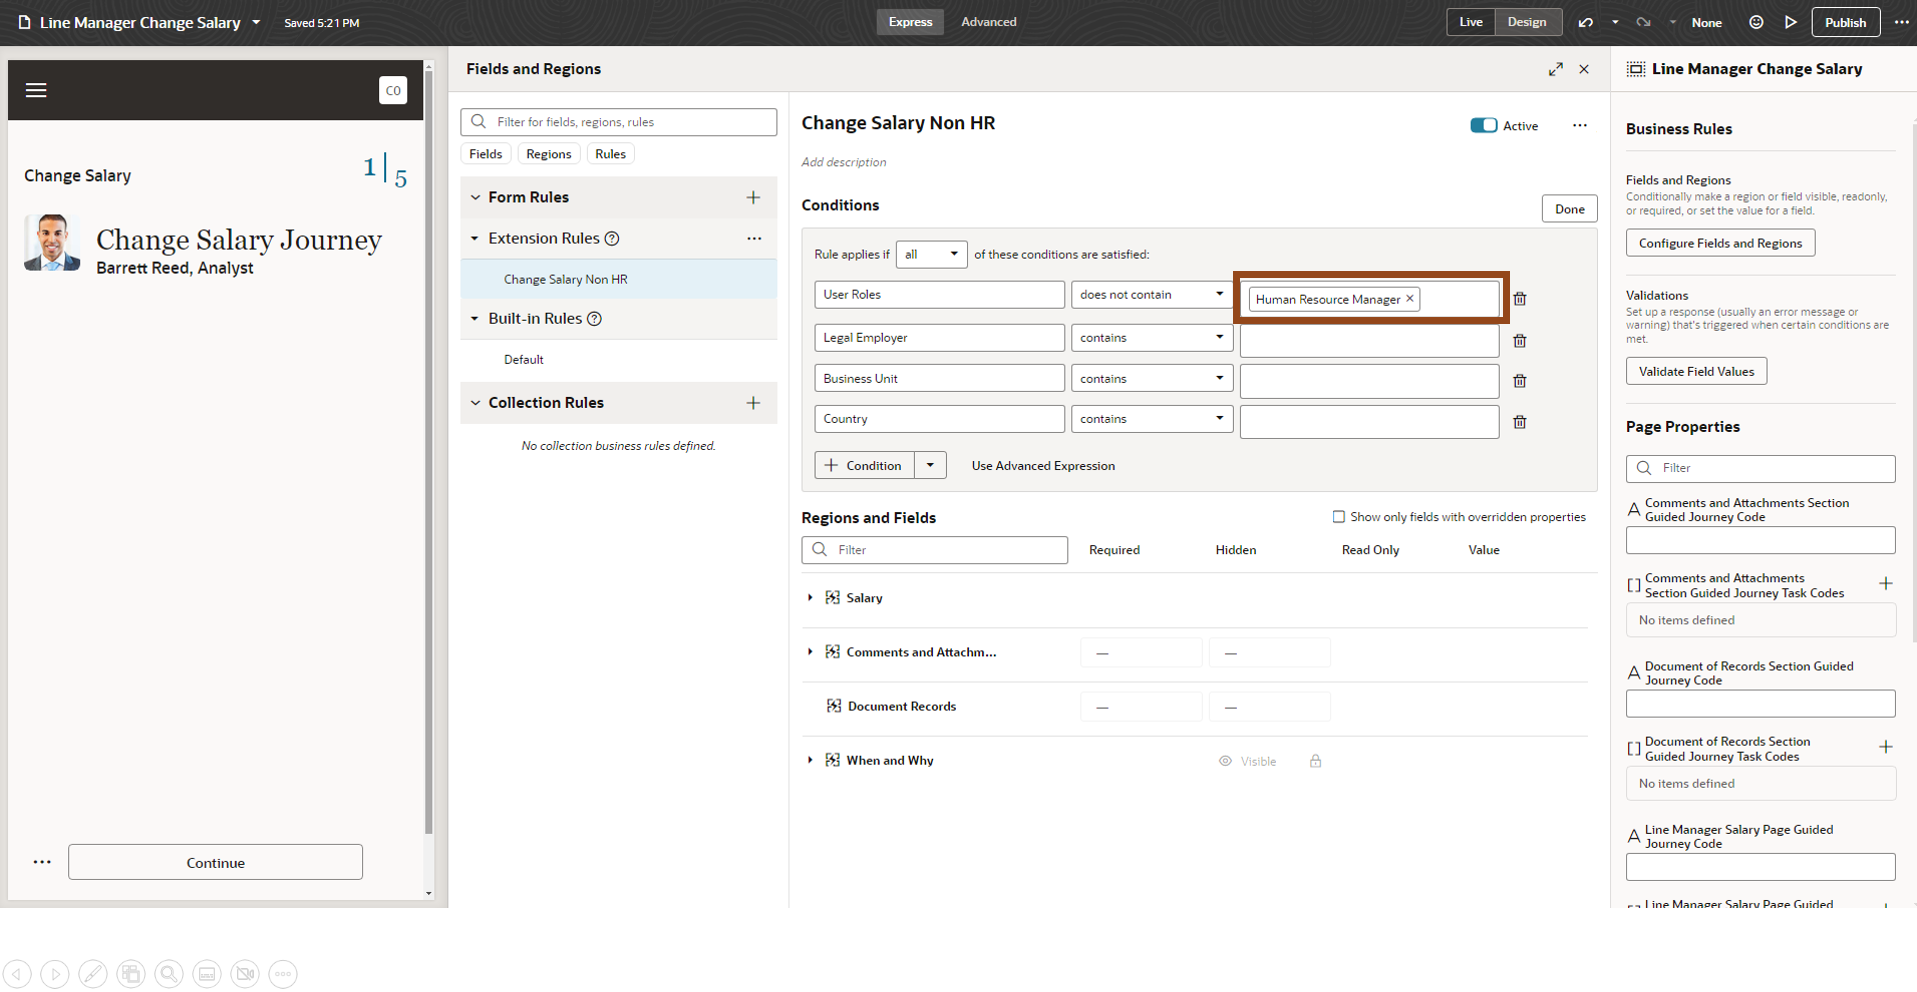
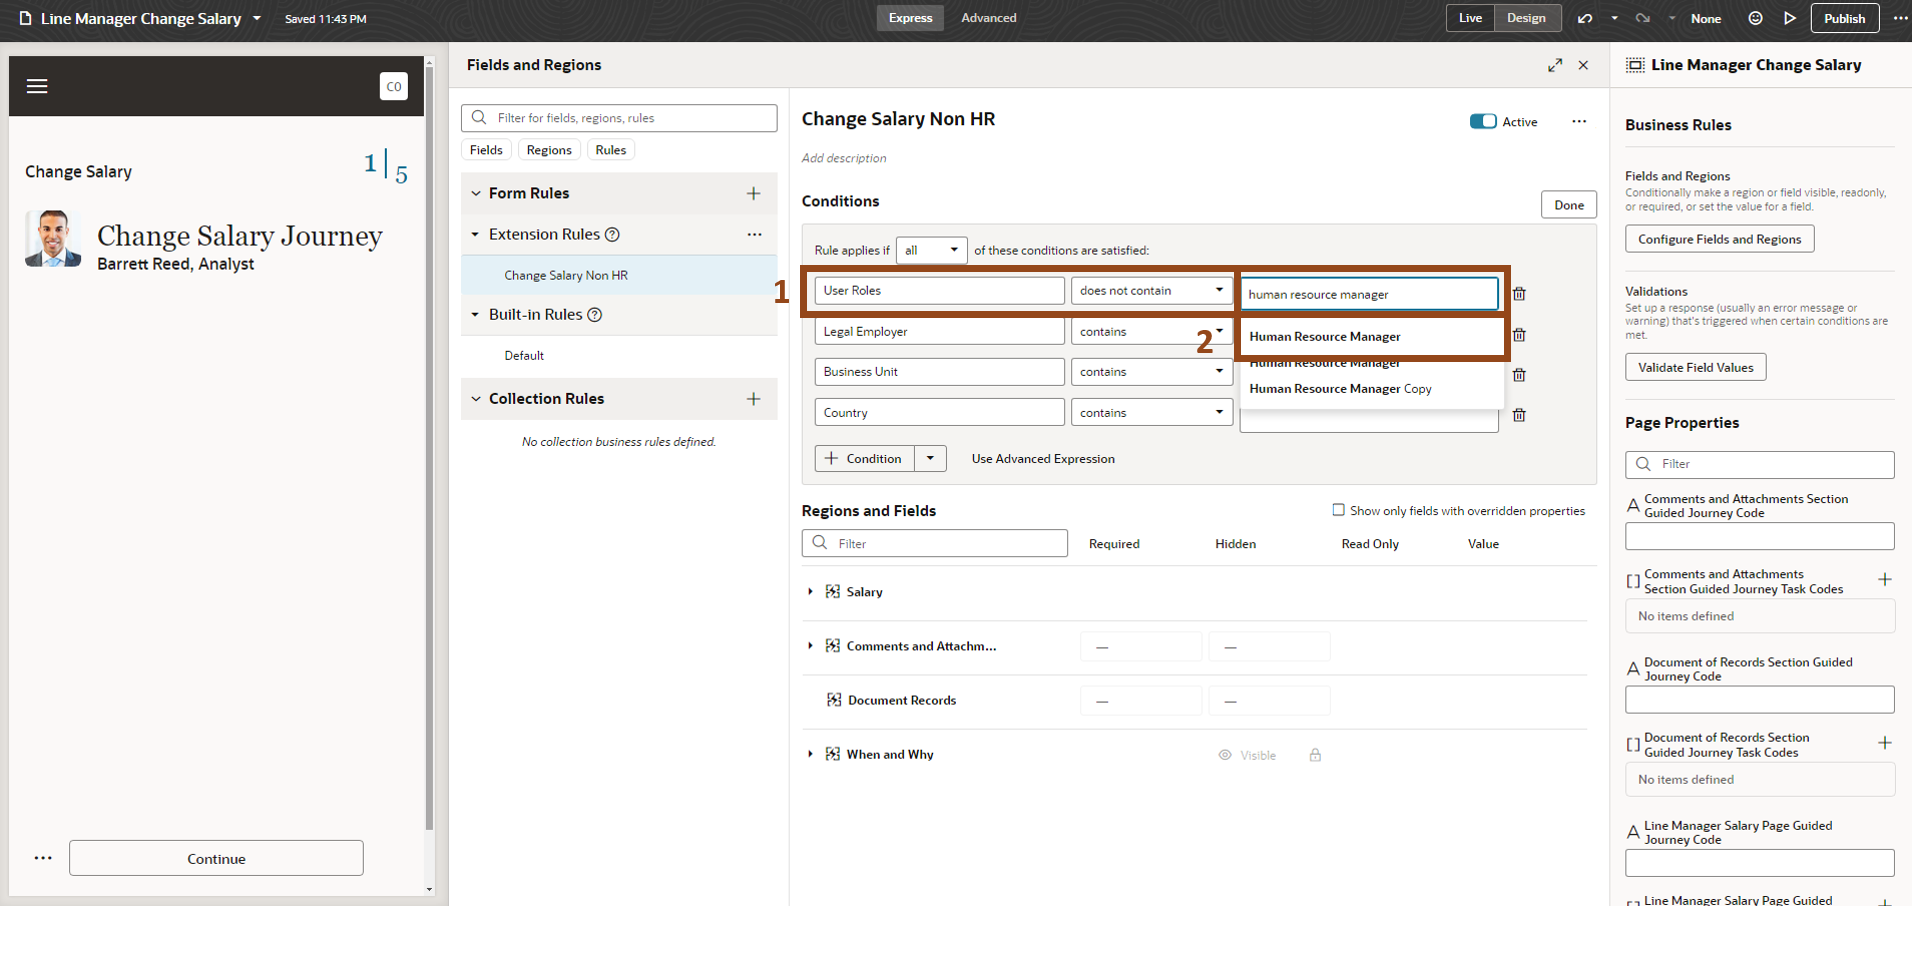
Changes

diff --git a/apps-cloud-adventure-cio/02-configure/configure.md b/apps-cloud-adventure-cio/02-configure/configure.md
@@ -58,7 +58,7 @@ In this activity, you will use Redwood to incorporate rules and define content s
 
     > (1) Enter a **future date** for **When does the salary will start?** <br>
 
-    > (2) Select **Change Salary** for **What is the action name.** <br>
+    > (2) Select **Change Salary** for **What is the action name?** <br>
 
     > (3) Select **Career Progression** for **why you are changing the salary for Barrett Reed?** <br>
 
@@ -117,13 +117,15 @@ In this activity, you will use Redwood to incorporate rules and define content s
 
     ![Fields and Regions](images/image013.png)
     
-    > (1) Click on **contains** in the User Roles Row. <br>
+    > (1) Click on the middle box that has **contains** in the User Roles Row. <br>
 
     > (2) Select **does not contain** from the drop down options.  
 
     ![Fields and Regions](images/image014.png)
 
-    > Then enter the **Human Resource Manager** role in the right most box.
+    > (1) Enter the **Human Resource Manager** role in the right most box of the **User Roles** row. <br>
+
+    > (2) Select the first **Human Resource Manager** role from the drop down options.  
 
     ![Fields and Regions](images/image015.png)
 
@@ -237,7 +239,7 @@ In this activity, you will use Redwood to incorporate rules and define content s
 
     Redwood offers a quick way to review your changes as they appear in the application.
 
-    > (1) Click on the **Review icon** in the upper right of  the screen.   <br>
+    > (1) Click on the **Preview** ![Preview Icon](images/Icon04_preview.png) icon in the upper right of  the screen.   <br>
 
     > (2) A new window will pop up.
 
@@ -253,7 +255,7 @@ In this activity, you will use Redwood to incorporate rules and define content s
 
     > (1) Enter a **future date** for **When does the salary will start?** <br>
 
-    > (2) Select **Change Salary** for **What is the action name.** <br>
+    > (2) Select **Change Salary** for **What is the action name?** <br>
 
     > (3) Select **Career Progression** for **why you are changing the salary for Barrett Reed?** <br>
 
@@ -304,8 +306,6 @@ In this example, you used Redwood, Oracle’s next-generation design system, to 
 
 
 **You have successfully completed the Activity!**
-
-**For extra credit (and possibly some Oracle swag) please make sure you record the information regarding the Item with highest Lead Time Variance Percentage in the review Item Category Set.**
 
 
 
